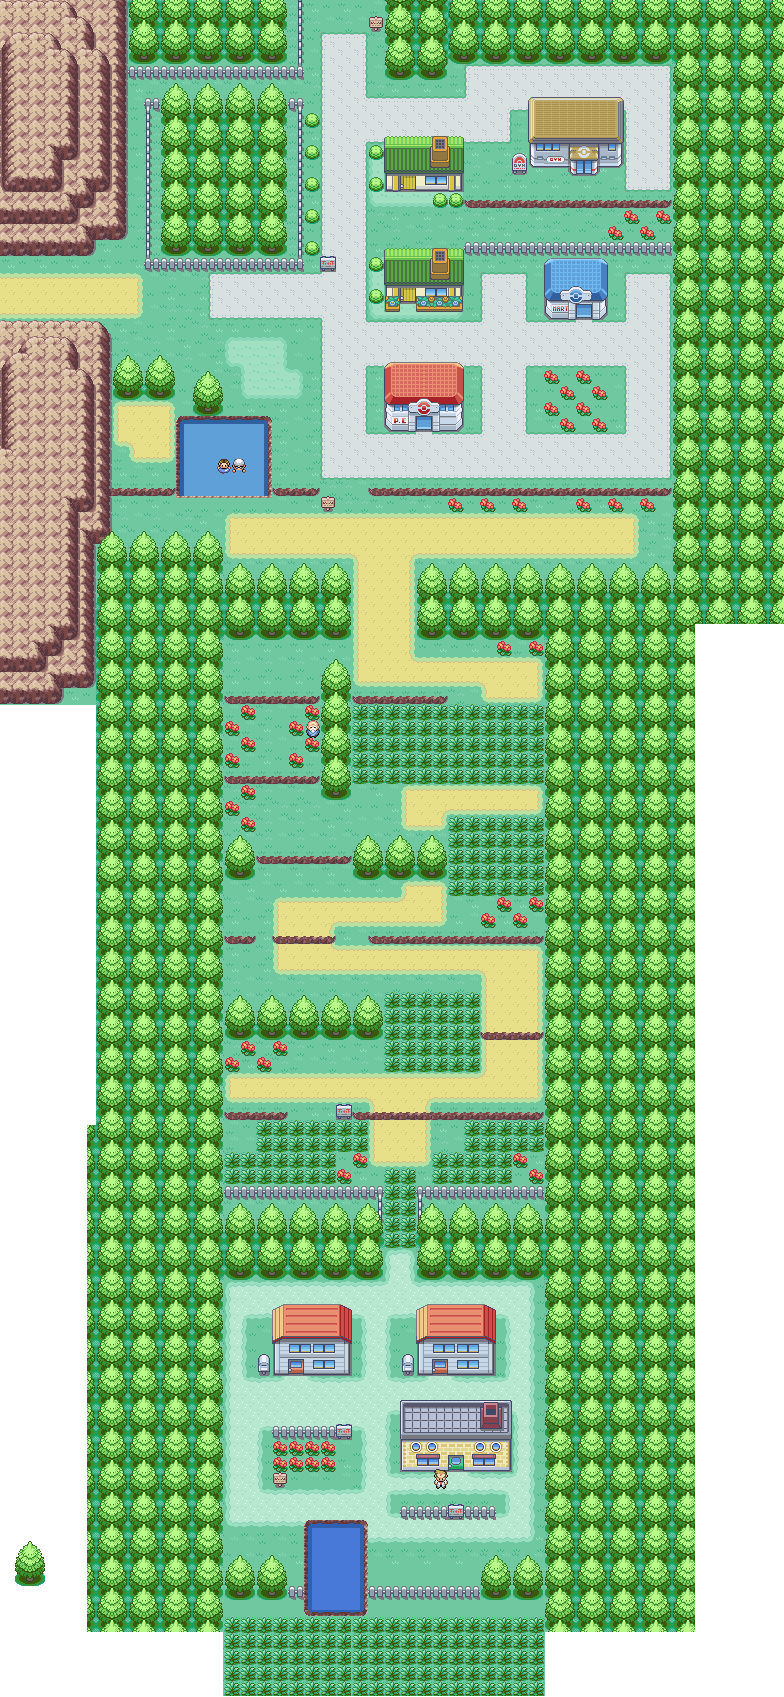
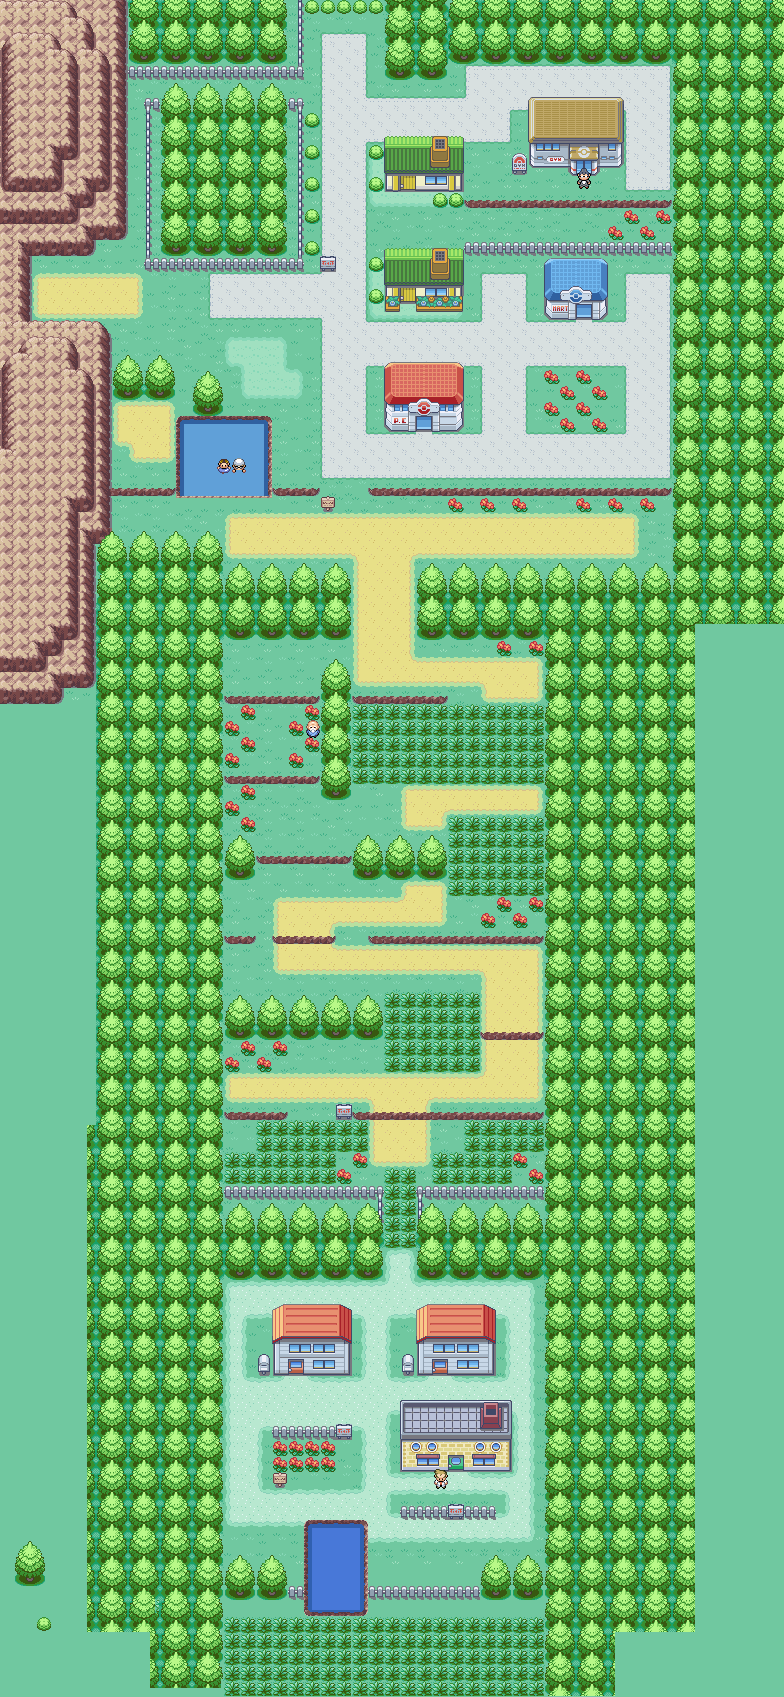
[CHANGED] background and map

diff --git a/src/load_object.c b/src/load_object.c
@@ -33,6 +33,7 @@ object_t *load_object(object_t *obj)
     obj[2] = create_object("pictures/intro2.jpg", (sfVector2f){0, 0});
     obj[3] = create_object("pictures/background.png", (sfVector2f){0, 0});
     obj[4] = create_object("pictures/character.png", (sfVector2f){111, 94});
+    //x = 272 y = 1358
     obj[5] = create_object("pictures/pause.jpg", (sfVector2f){0, 0});
     obj[6] = create_object("pictures/exit1.png", (sfVector2f){725, 700});
     obj[7] = create_object("pictures/exit2.png", (sfVector2f){725, 700});
@@ -75,11 +76,11 @@ object_t *load_object2(object_t *obj)
 
 object_t *load_object3(object_t *obj)
 {
-    obj[36] = create_object("pictures/quest.png", (sfVector2f){207, 80});
+    obj[36] = create_object("pictures/back.png", (sfVector2f){-98, -56});
     obj[37] = create_object("pictures/quest1.png", (sfVector2f){85, 55});
     obj[38] = create_object("pictures/quest2.png", (sfVector2f){85, 55});
     obj[39] = create_object("pictures/quest3.png", (sfVector2f){85, 55});
-    obj[40] = create_object("pictures/text1.png", (sfVector2f){345, 1518});
+    obj[40] = create_object("pictures/text1.png", (sfVector2f){346, 1518});
     obj[41] = create_object("pictures/text2.png", (sfVector2f){218, 768});
     return (obj);
 }

diff --git a/src/init_game.c b/src/init_game.c
@@ -29,12 +29,11 @@ void load_window(game_t *game)
 void init_game_variables2(game_t *game, object_t *obj)
 {
     game->volume = 100;
-    sfSprite_setScale(obj[36].spr,(sfVector2f){0.07, 0.07});
     sfSprite_setScale(obj[37].spr,(sfVector2f){0.35, 0.4});
     sfSprite_setScale(obj[38].spr,(sfVector2f){0.35, 0.4});
     sfSprite_setScale(obj[39].spr,(sfVector2f){0.35, 0.4});
-    sfSprite_setScale(obj[40].spr,(sfVector2f){0.75, 1});
-    sfSprite_setScale(obj[41].spr,(sfVector2f){0.75, 1});
+    sfSprite_setScale(obj[40].spr,(sfVector2f){0.40, 0.5});
+    sfSprite_setScale(obj[41].spr,(sfVector2f){0.40, 0.5});
     obj->quest = 1;
     game->stock = ' ';
     game->combat->tmp = game->combat->list;

diff --git a/src/inventory.c b/src/inventory.c
@@ -24,8 +24,9 @@ void inventory(game_t *game, object_t *obj)
     sfRenderWindow_drawSprite(game->window, obj[34].spr, NULL);
     if (game->combat->tmp->next->next != NULL && sfKeyboard_isKeyPressed(sfKeyRight))
         game->combat->tmp = game->combat->tmp->next;
-    //if (game->combat->tmp->next != NULL && sfKeyboard_isKeyPressed(sfKeyLeft))
-        //element d'avant dans la liste
+    if (game->combat->tmp->next->next == NULL)
+        game->combat->tmp = game->combat->list;
+        
     sfRenderWindow_drawSprite(game->window, game->combat->tmp->spr->spr, NULL);
     draw_info(game);
     if (mouse_is_on(game, (sfVector2f){43, 689}, 180, 150) == 1) {

diff --git a/src/play_game.c b/src/play_game.c
@@ -15,6 +15,7 @@ void play_game(game_t *game, object_t *obj)
         //move_rect(&obj[4].rect, 50, 200);
         sfClock_restart(game->clock);
         }*/
+    sfRenderWindow_drawSprite(game->window, obj[36].spr, NULL);
     sfRenderWindow_drawSprite(game->window, obj[3].spr, NULL);
     sfRenderWindow_setView (game->window, game->view);
     sfRenderWindow_drawSprite(game->window, obj[4].spr, NULL);
